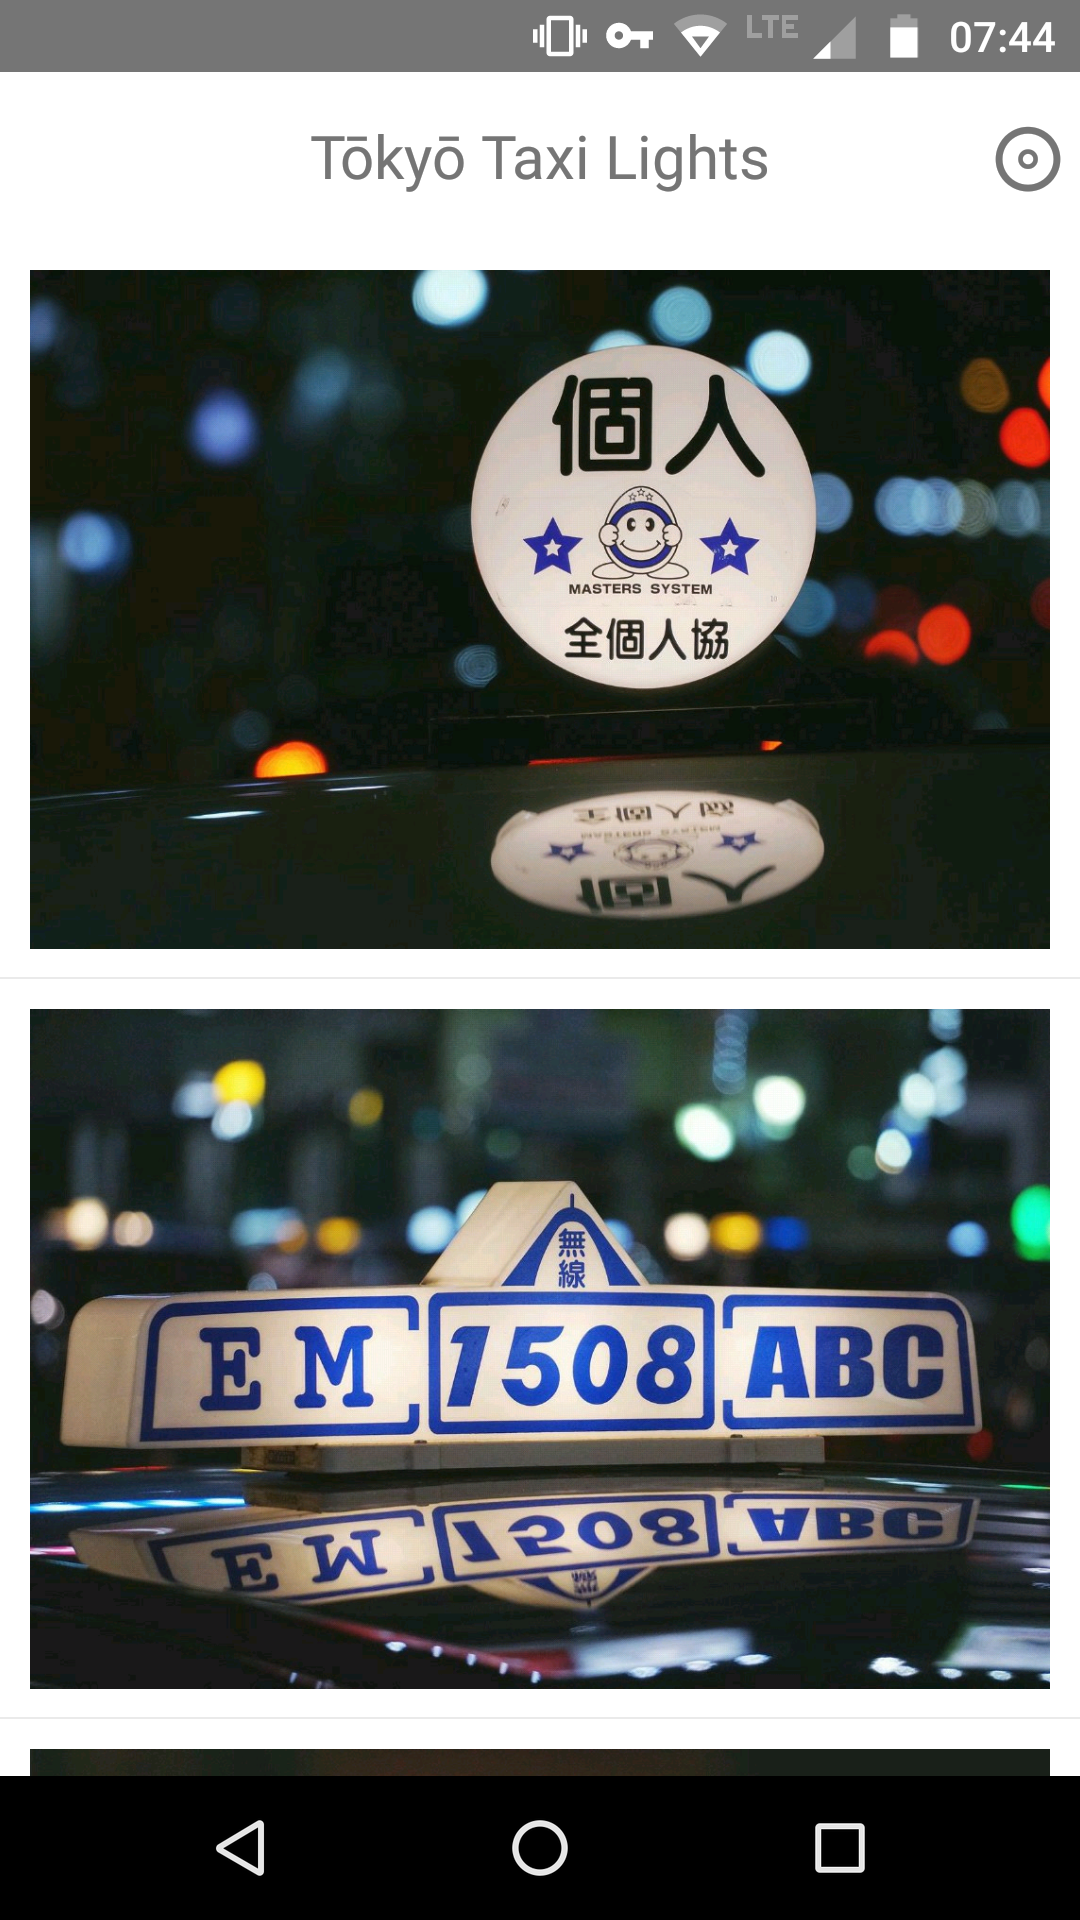
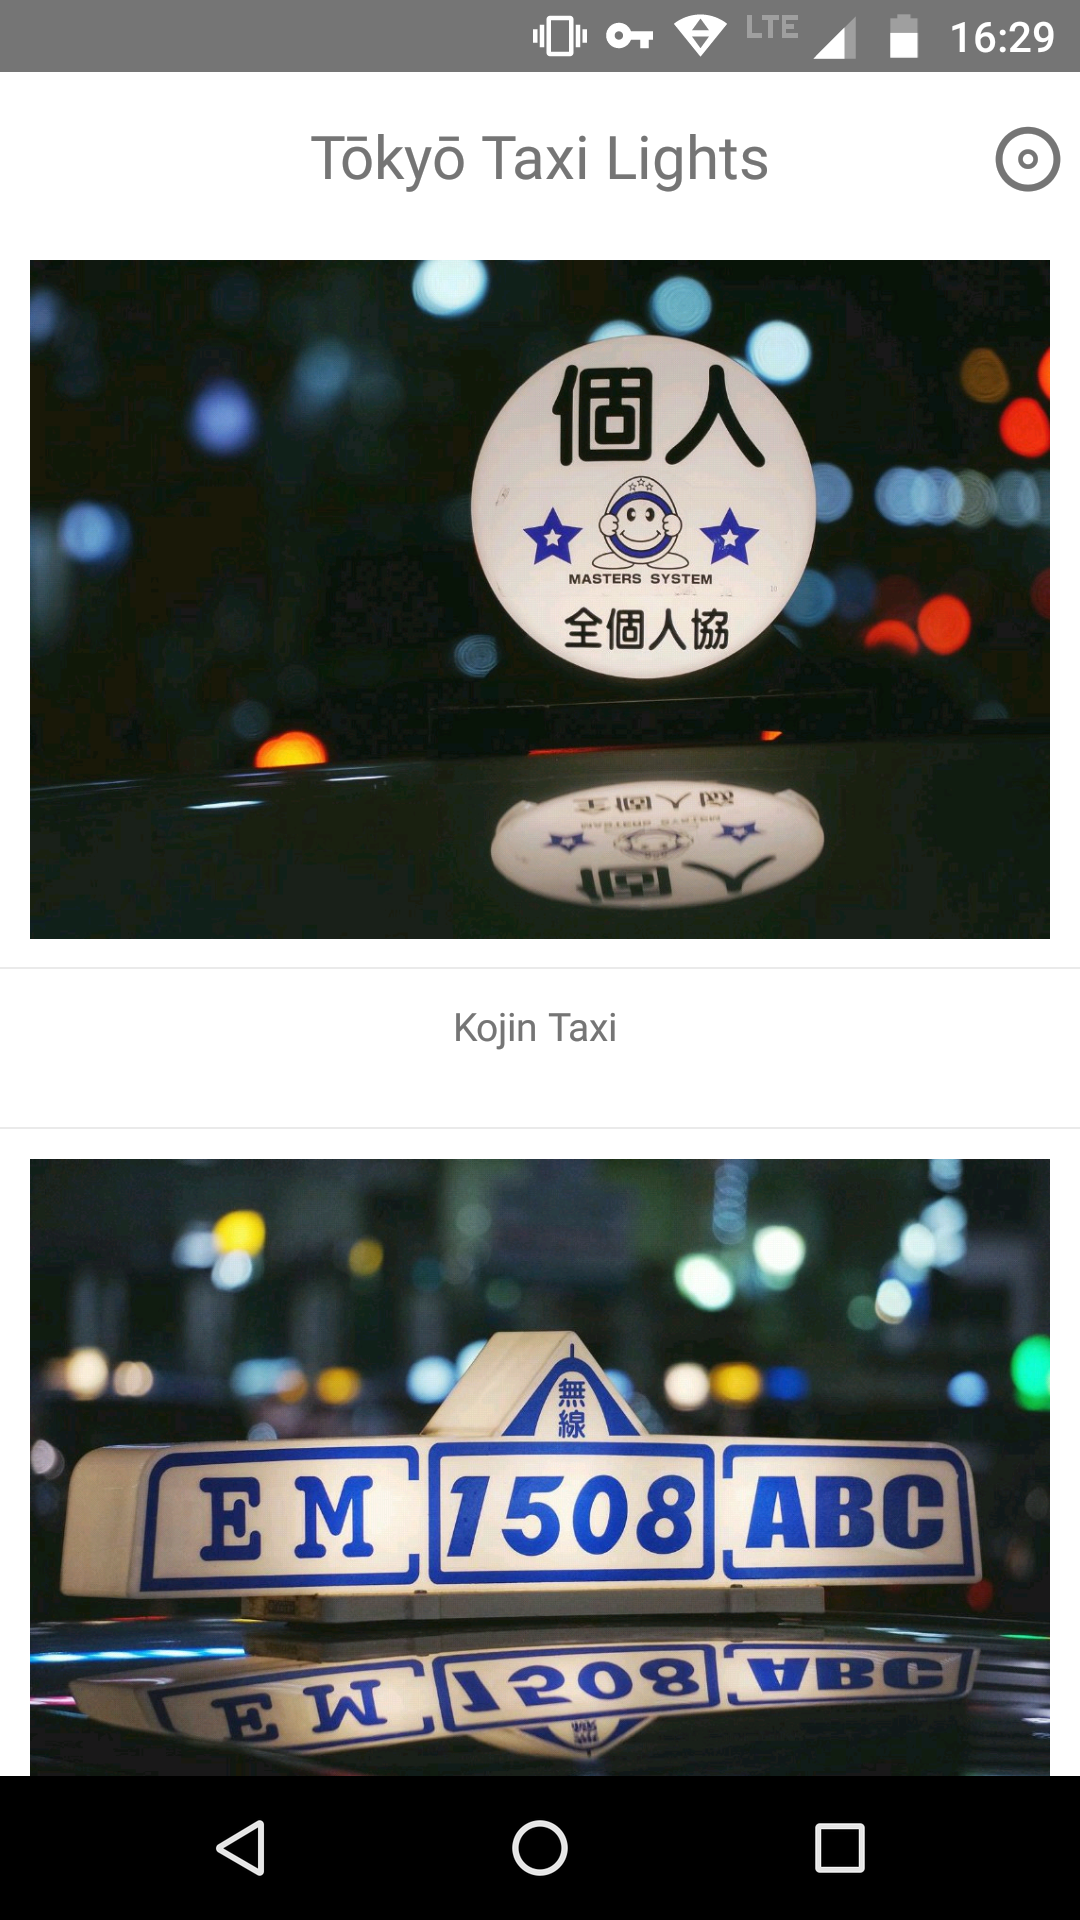
Add text captions. Minor tweaks :taxi:

diff --git a/json.php b/json.php
@@ -21,6 +21,12 @@ echo <<< EOT
         },
       "offline": "true",
       "styles": {
+       "caption": {
+          "font": "Lato",
+          "size": "13",
+          "align": "center",
+          "spacing": "15"
+        },
         "image": {
           "width": "100%"
         }
@@ -60,23 +66,52 @@ foreach (glob($ext) as $file) {
 shuffle($files);
 $files = array_slice($files, -$number);
 
-// Pop the last array item as it has to be formatted differently
-$last_item=array_pop($files);
+// Check whether the last photo has the accompanying text file,
+// then read the file's contents into the $end_caption variable.
+// If the file doesn't exist, set $end_caption to the file name.
+// $end_caption is formatted differently.
+$end_txt = pathinfo(end($files), PATHINFO_FILENAME).".txt";
+if (file_exists($end_txt)) {
+    $end_caption = file_get_contents($end_txt);
+    } else {
+    $end_caption = pathinfo(end($files), PATHINFO_FILENAME);
+    }
 
 foreach ($files as &$file) {
+
+    // Check whether a photo has the accompanying text file,
+    // then read the file's contents into the $caption variable.
+    // If the file doesn't exist, set $caption to the file name.
+    $txt = pathinfo($file, PATHINFO_FILENAME).".txt";
+    if (file_exists($txt)) {
+        $caption = file_get_contents($txt);
+    } else {
+        $caption = pathinfo($file, PATHINFO_FILENAME);
+    }
+
 echo <<< EOT
     {
 	"type": "image",
         "url": "$base_url$file",
         "class": "image"
             },
+    {
+    "type": "label",
+        "text": "$caption",
+        "class": "caption"
+            },
 EOT;
 	    }
 echo <<< EOT
-{
-	"type": "image",
-        "url": "$base_url$last_item",
-        "class": "image"
+    {
+    "type": "label",
+        "text": "🚕",
+        "style": {
+          "font": "Lato",
+          "size": "19",
+          "align": "center",
+          "spacing": "15"
+        }
             }
           ]
         }
